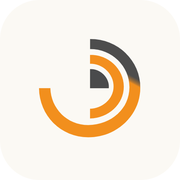
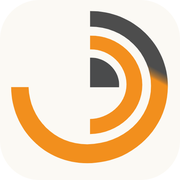
chore: アイコンを拡大して再生成し、service-workerのキャッシュをowz-v3に更新 [skip ci]
- favicon/マスカブルSVGの拡大率を調整(0.84→1.30 / 0.62→1.06)
- PNGアイコン(32/180/192/512/maskable-512)を再生成
- service-worker: VERSIONをowz-v1→owz-v3に更新

Changed region(s): [[0.0556, 0.0556, 0.9444, 0.9167]]

diff --git a/service-worker.js b/service-worker.js
@@ -1,5 +1,5 @@
 /* オーバーツ: Service Worker(オフライン対応 + ホーム画面追加) */
-const VERSION = 'owz-v1';
+const VERSION = 'owz-v3';
 const SHELL = [
   './',
   'index.html',
